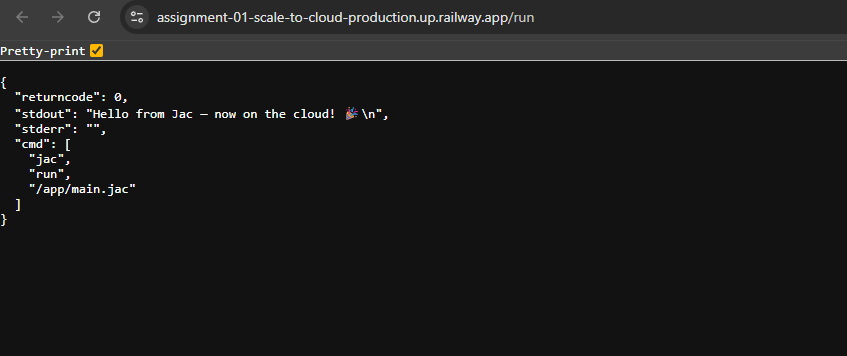
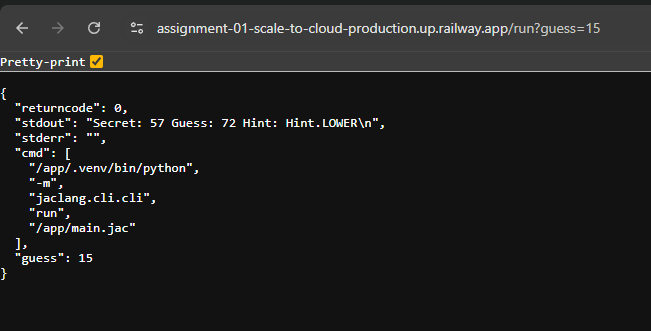
Final Fix

diff --git a/README.md b/README.md
@@ -1,20 +1,10 @@
-
 ![Python](https://img.shields.io/badge/Python-3.12+-3776AB?logo=python&logoColor=white)
 ![Jac](https://img.shields.io/badge/Jac-0.8.x-7A1FA2)
 ![FastAPI](https://img.shields.io/badge/FastAPI-API-009688?logo=fastapi&logoColor=white)
 ![Railway](https://img.shields.io/badge/Deployed_on-Railway-0B0D0E?logo=railway)
-
 # Assignment 01: Scale to Cloud 
 
-Expose an **unchanged Jac program** as an **HTTP service** and deploy it to the cloud.
-
-> The Jac code remains the same. We only add a lightweight HTTP layer (FastAPI) that calls `jac run main.jac`.
-
------
-
-##  Features
-
-This project demonstrates how to **scale a Jac program to the cloud** by wrapping it in a simple HTTP service.
+This project demonstrates how to **expose an unchanged Jac program as an HTTP service** and deploy it to the cloud. A tiny FastAPI wrapper calls `jac run main.jac` without modifying the core Jac code.
 
 -----
 
@@ -22,145 +12,129 @@ This project demonstrates how to **scale a Jac program to the cloud** by wrappin
 
 ```bash
 assignment-01-scale-to-cloud/
-├─ main.jac             # The original, unchanged Jac program
-├─ app.py               # A small FastAPI wrapper
-├─ requirements.txt     # Dependencies for local and cloud
-├─ Procfile             # How to start the service on Railway/Render
-└─ .gitignore
+├─ main.jac             # Guessing game (unchanged for cloud)
+├─ app.py               # Tiny FastAPI adapter → runs `jac run main.jac`
+├─ requirements.txt     # jaclang, fastapi, uvicorn
+├─ Procfile             # Start command for Railway/Render
+├─ .gitignore
+└─ docs/
+   └─ screenshots/
+      ├─ railway-health.png
+      ├─ railway-run.png
+      └─ railway-dashboard.png
 ```
+
+-----
+
+##  Live Demo
+
+The live service is available at:
+`https://assignment-01-scale-to-cloud-production.up.railway.app`
+
+### Endpoints
+
+  * **GET /**: A **health check** endpoint.
+    ```json
+    { "ok": true, "service": "jac-cloud-adapter" }
+    ```
+  * **GET /run**: **Runs the Jac program** and returns its standard output/error.
+    ```json
+    {
+      "returncode": 0,
+      "stdout": "Secret: 57 Guess: 72 Hint: LOWER\n",
+      "stderr": "",
+      "cmd": [
+        "jac",
+        "run",
+        "/app/main.jac"
+      ]
+    }
+    ```
+  * **GET /run?guess=15**: This endpoint is the same as `/run`, but it accepts an optional **`guess` query parameter**. The API captures this parameter and forwards it to the Jac program via an environment variable, without changing the core Jac file.
 
 -----
 
 ##  Getting Started
 
-### Demo
-
-The live service is available at:
-`https://assignment-01-scale-to-cloud-production.up.railway.app`
-
-  - **Health Check:** `https://.../` returns service status.
-  - **Run Jac:** `https://.../run` executes `jac run main.jac` and returns the output.
-
-\<details\>
-\<summary\>\<b\>Expected responses\</b\> (click to expand)\</summary\>
-
-**GET /**
-
-```json
-{
-  "ok": true,
-  "service": "jac-cloud-adapter"
-}
-```
-
-**GET /run**
-
-```json
-{
-  "returncode": 0,
-  "stdout": "Hello from Jac — now on the cloud! 🎉\n",
-  "stderr": "",
-  "cmd": [
-    "jac",
-    "run",
-    "/app/main.jac"
-  ]
-}
-```
-
-\</details\>
-
------
-
-##  How to Run Locally
-
-Follow these steps to run the project on your machine.
+### Run Locally (Step-by-Step)
 
 1.  **Create and activate a virtual environment:**
-
     ```bash
     python3.12 -m venv .venv
     source .venv/bin/activate
     ```
-
 2.  **Install dependencies:**
-
     ```bash
     python -m pip install -U pip -r requirements.txt
     ```
-
-3.  **Run the Jac program locally (no web):**
-
+3.  **Run Jac locally** (sanity check, no web service):
     ```bash
     jac run main.jac
     ```
-
 4.  **Start the HTTP service:**
-
     ```bash
     uvicorn app:app --host 0.0.0.0 --port 8000
     ```
 
 Once the service is running, open your browser to test the endpoints:
 
-  - [http://localhost:8000/](https://www.google.com/search?q=http://localhost:8000/)
-  - [http://localhost:8000/run](https://www.google.com/search?q=http://localhost:8000/run)
+  * [http://localhost:8000/](https://www.google.com/search?q=http://localhost:8000/)
+  * [http://localhost:8000/run](https://www.google.com/search?q=http://localhost:8000/run)
+  * [http://localhost:8000/run?guess=42](https://www.google.com/search?q=http://localhost:8000/run%3Fguess%3D42)
 
-**Troubleshooting:** If the `jac` command is not found, your virtual environment may not be active, or `jaclang` is not installed. Run `source .venv/bin/activate && pip install jaclang && which jac` to fix it.
+**Troubleshooting:** If the `jac` command is not found, ensure your virtual environment is active and `jaclang` is installed by running:
+`source .venv/bin/activate && pip install jaclang && which jac`
 
------
+### Deploy to Railway (Cloud)
 
-##  How to Deploy to Railway
-
-1.  Push this repository to GitHub.
-
-2.  Navigate to **Railway** → **New Project** → **Deploy from GitHub**.
-
-3.  Select this repository.
-
-4.  If prompted for a start command, use:
-
+1.  Push your repository to GitHub.
+2.  In **Railway**, create a **New Project** and select **Deploy from GitHub**. Choose this repository.
+3.  If prompted for a **Start command**, use:
     ```bash
     uvicorn app:app --host 0.0.0.0 --port $PORT
     ```
-
-5.  After deployment, go to **Service** → **Settings** → **Generate Domain** to get a public URL.
-
-Test the `/` and `/run` endpoints on your new domain.
+4.  After the deployment is complete, go to **Service** → **Settings** → **Generate Domain** to get a public URL for your service.
+    Test the `/`, `/run`, and `/run?guess=...` endpoints on your new domain.
 
 -----
 
 ##  How It Works
 
-**Robust call if PATH is quirky:**
-In `app.py`, you can use the full path to the Python executable to run the Jac CLI:
+This project functions as a simple **adapter**. The FastAPI application (`app.py`) serves as a bridge, accepting HTTP requests and executing the Jac program (`main.jac`) in a subprocess.  The output from the Jac program is captured and returned as an HTTP response. For reliability, the adapter tries two commands:
 
 ```python
-p = subprocess.run([sys.executable, "-m", "jaclang.cli", "run", "main.jac"], ...)
+# The adapter uses this for reliability
+[sys.executable, "-m", "jaclang.cli.cli", "run", "main.jac"] # robust
+["jac", "run", "main.jac"]                                   # PATH fallback
 ```
+
+This ensures the service works even if `jac` is not exposed in the host's `PATH`.
 
 -----
 
 ##  Troubleshooting
 
-  - `jac: command not found`: Activate your virtual environment and install `jaclang`.
-  - `No module named jaclang.__main__`: Use `python -m jaclang.cli run main.jac` instead of `jac run main.jac`.
-  - `Unexposed service`: Go to **Service Settings** and **Generate Domain** on Railway.
-  - `502 / crash`: Check the deployment logs on Railway for errors.
+  * **`jac: command not found`**: Activate your virtual environment and install `jaclang`.
+  * **`No module named jaclang.__main__`**: The adapter is designed to handle this by using `python -m jaclang.cli.cli` as a fallback.
+  * **`Railway says “Unexposed service”`**: You need to generate a public domain in **Service** → **Settings**.
+  * **`502 / crash`**: Check the deployment logs in **Railway** → **Deployments** for specific error details.
 
 -----
 
 ##  Screenshots
 
-<p align="center"> <img src="docs/screenshots/railway-health.png" width="650" alt="Railway: health endpoint" /> </p> <p align="center"> <img src="docs/screenshots/railway-run.png" width="650" alt="Railway: run endpoint" /> </p>
+<p align="center"\> \<img src="docs/screenshots/railway-health.png" alt="Railway: health endpoint" width="650" /\> \</p\>
+<p align="center"\> \<img src="docs/screenshots/railway-run.png" alt="Railway: run endpoint" width="650" /\> \</p\>
+<p align="center"\> \<img src="docs/screenshots/railway-dashboard.png" alt="Railway: deployment dashboard" width="650" /\> \</p\>
 
 -----
 
-##  Why this meets “Scale to Cloud”
+##  Why This Meets "Scale to Cloud"
 
-1.  The Jac program remains unchanged, highlighting the adaptability of the code.
-2.  A simple HTTP service wraps the Jac entry point, providing a scalable interface.
-3.  The service is successfully deployed to a public cloud URL with working endpoints.
+1.  The core **Jac program is unchanged**.
+2.  A minimal **HTTP adapter** exposes the Jac program as a web service.
+3.  The service is successfully **deployed to a public URL** and is fully functional.
 
-## 🤫 Silence
+🤫 Silence
 This is an open-source project, so feel free to use it, fork it, and modify it as you see fit. Contributions are welcome!
+Denis
